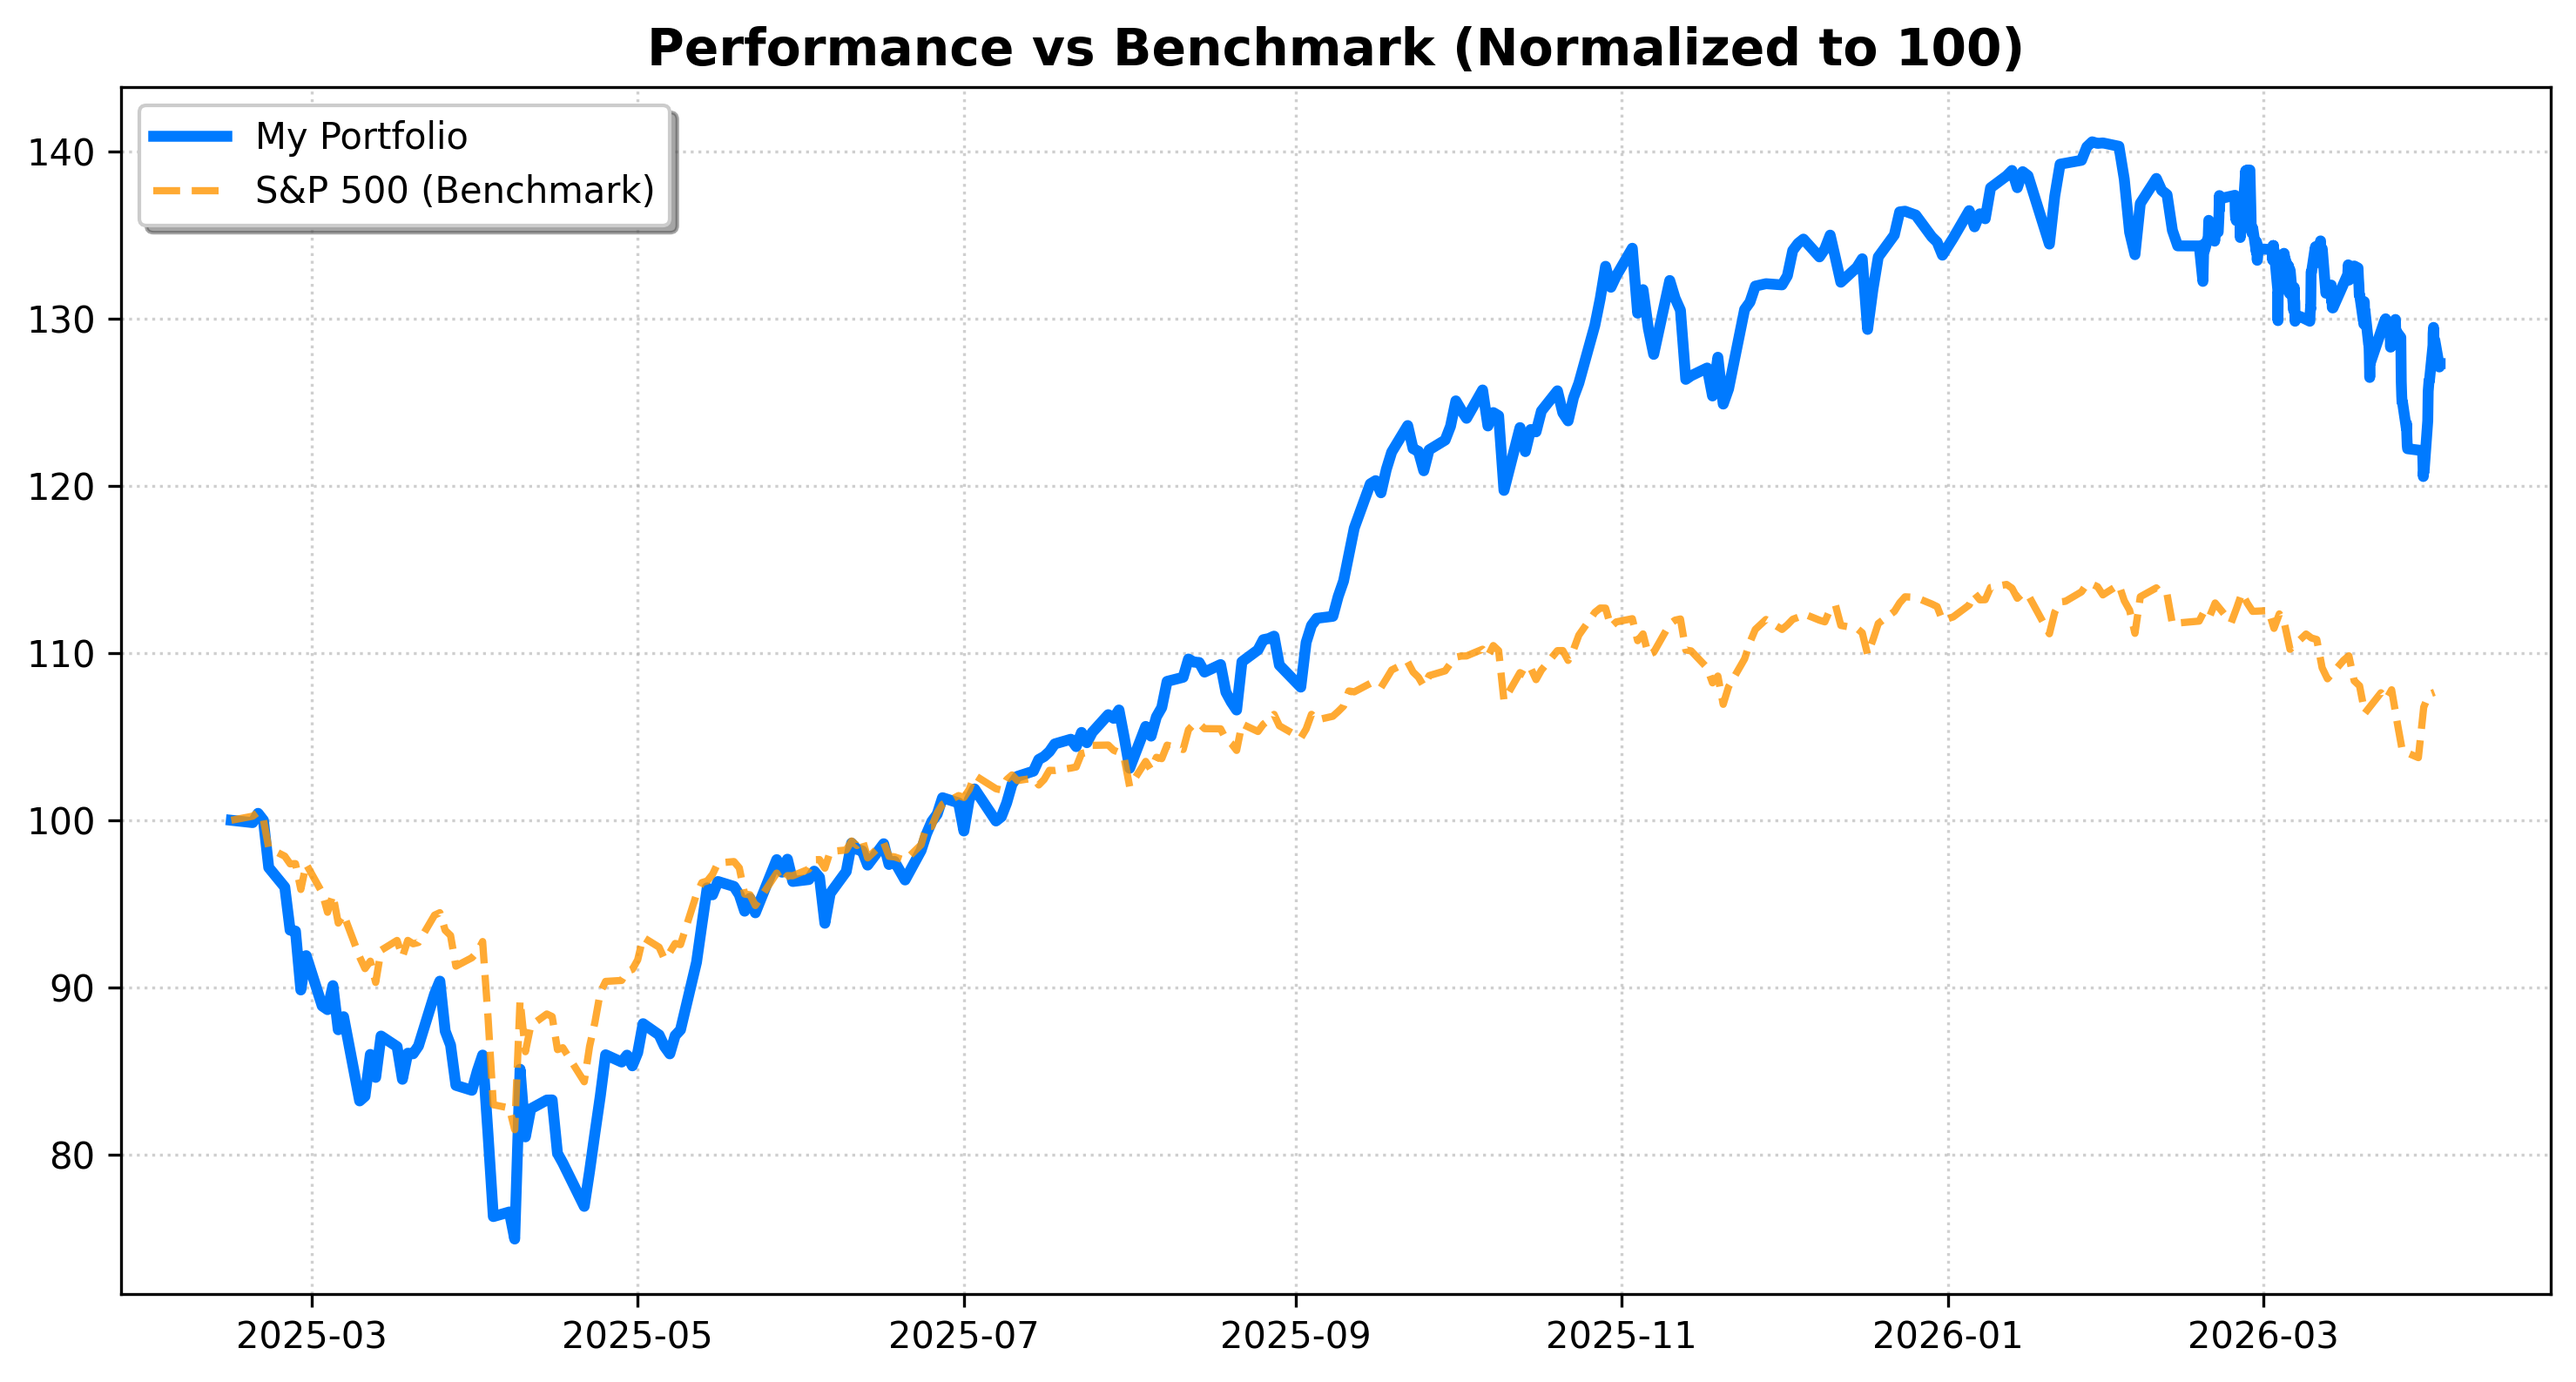
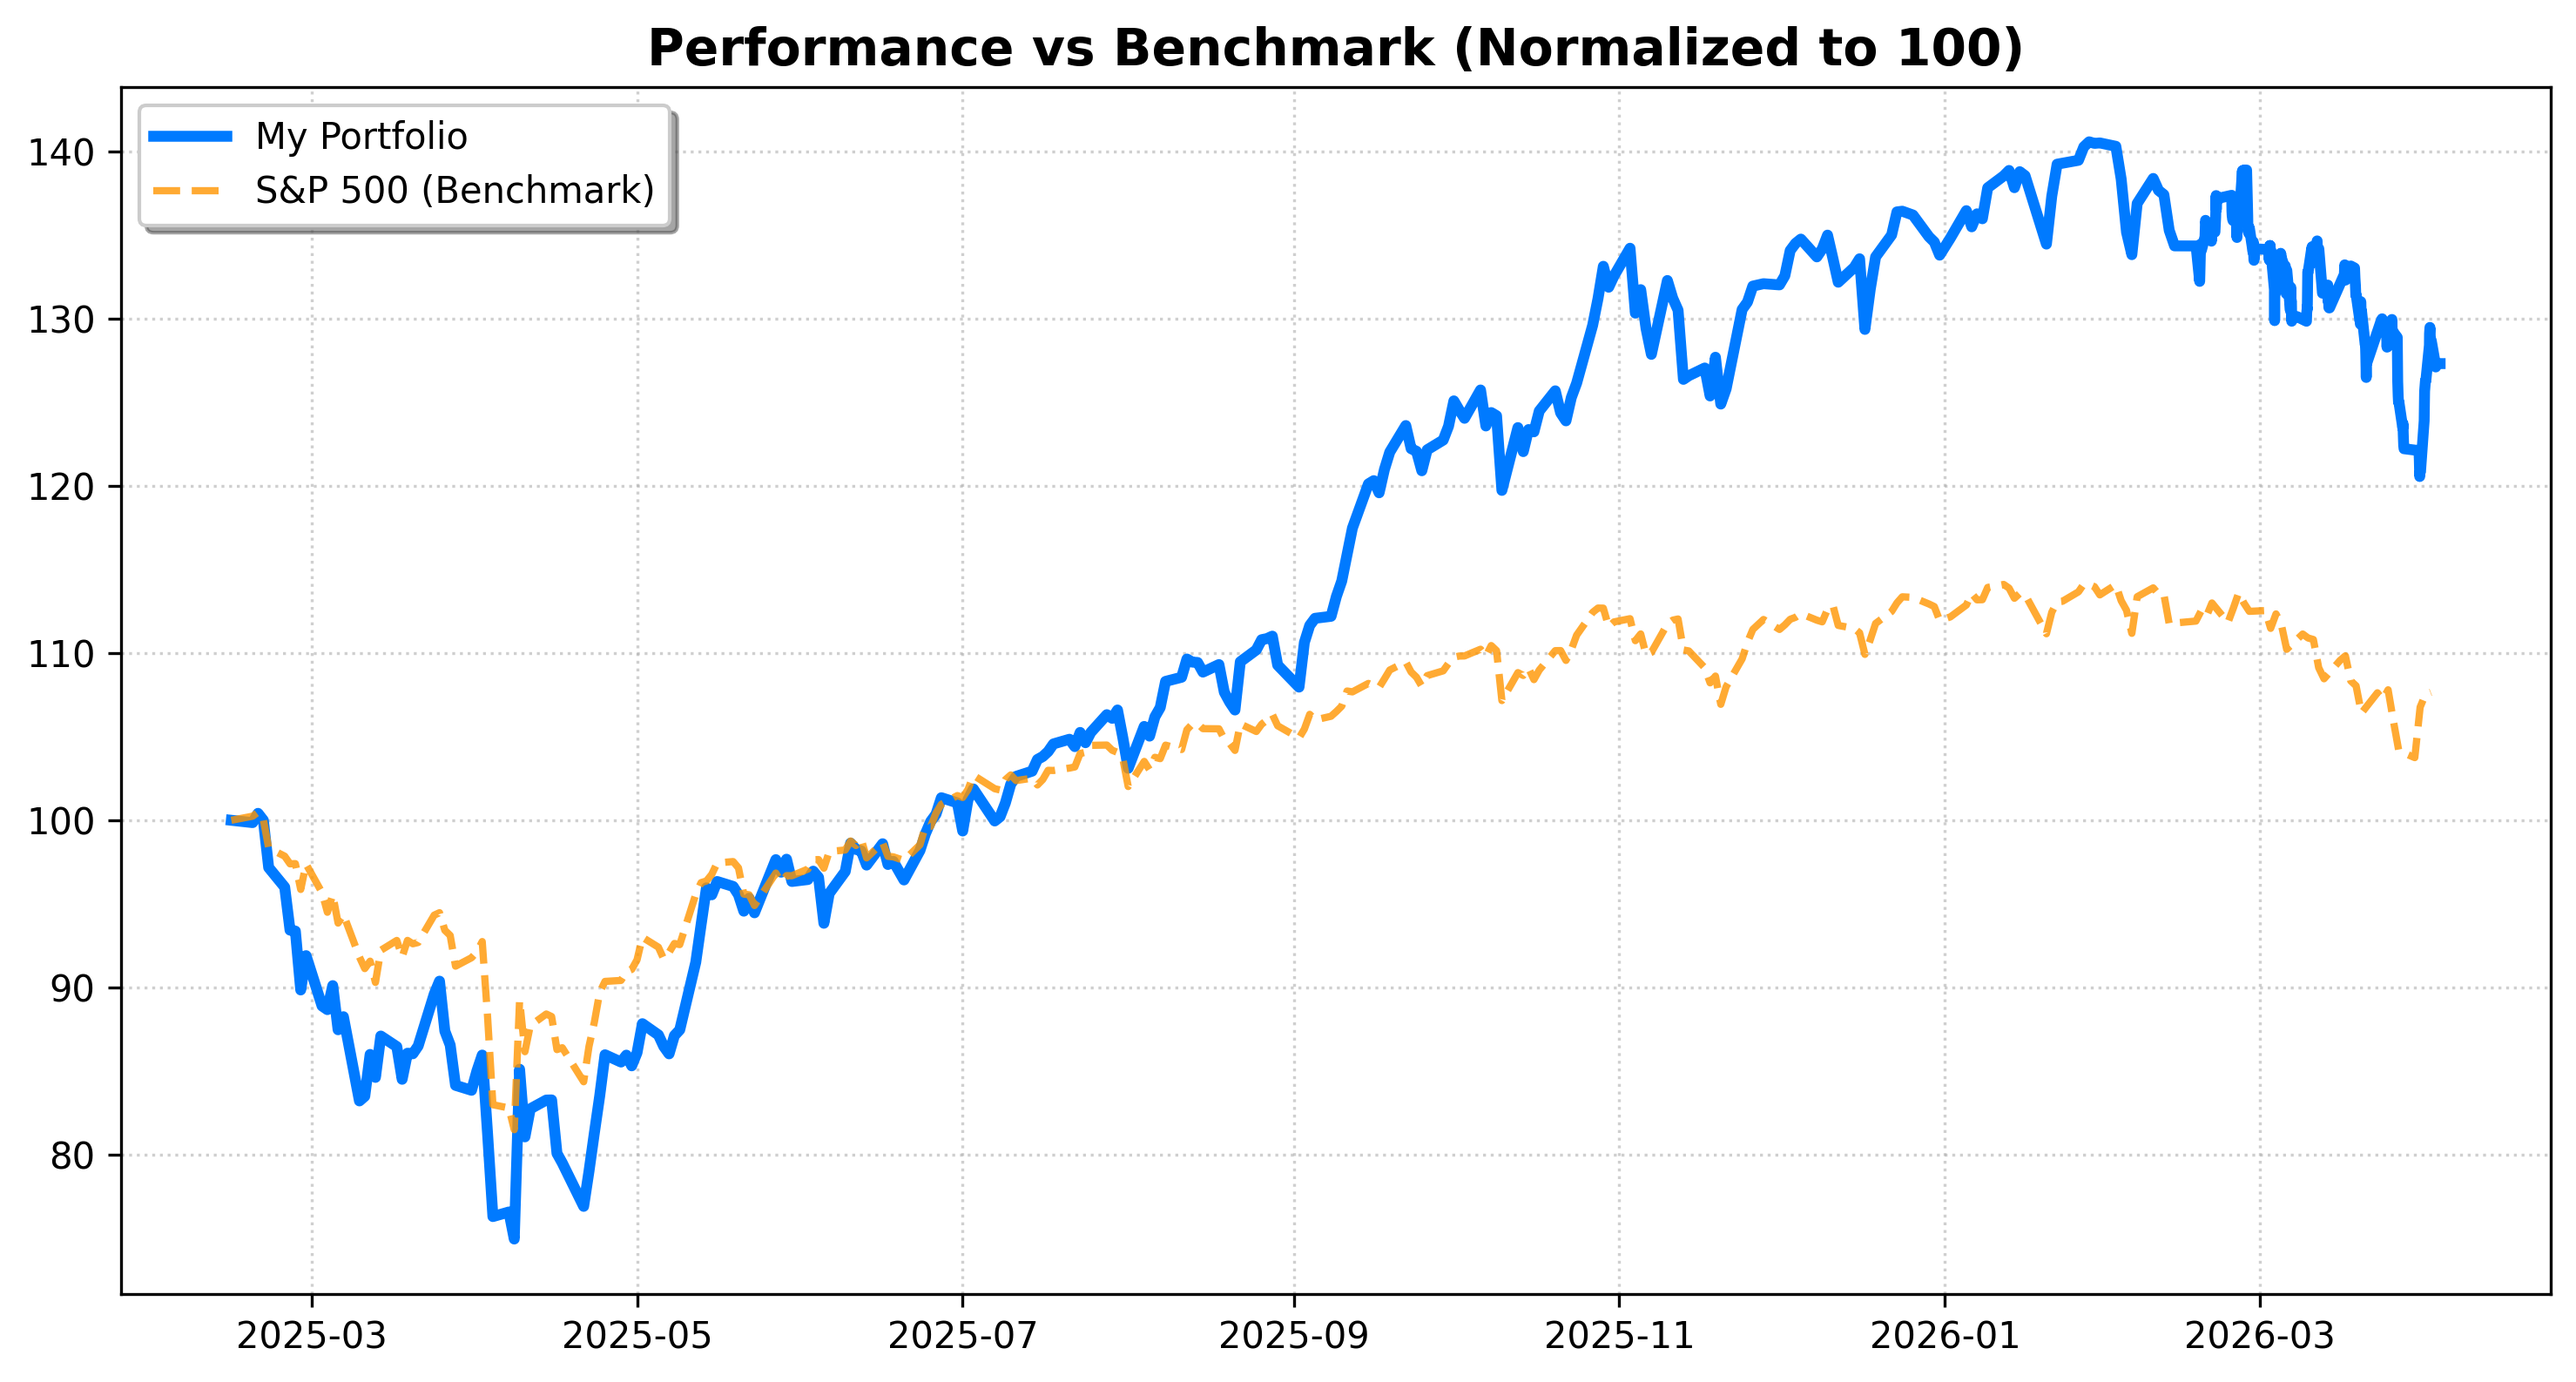
System Run: Analytics & Archive Update [skip ci]

diff --git a/README.md b/README.md
@@ -1,23 +1,23 @@
 # 📊 Portfolio Dashboard | מעקב תיק השקעות
-**Last Update:** 03/04/2026 01:38 | **USD/ILS:** ₪3.132
+**Last Update:** 03/04/2026 17:51 | **USD/ILS:** ₪3.129
 
 ## 💰 Portfolio Summary | סיכום התיק
 | Metric | Value | נתון |
 | :--- | :--- | :--- |
-| **Current Value** | `₪158,760` | **שווי נוכחי** |
-| **Total Invested** | `₪131,538` | **סך השקעה** |
-| **Total Profit/Loss** | `+20.70%` (₪27,222) | **רווח/הפסד כולל** |
+| **Current Value** | `₪158,603` | **שווי נוכחי** |
+| **Total Invested** | `₪131,408` | **סך השקעה** |
+| **Total Profit/Loss** | `+20.70%` (₪27,196) | **רווח/הפסד כולל** |
 | **Daily Change** | `-1.09%` | **שינוי יומי** |
 
 ## 📜 Holdings | פירוט החזקות
 | Ticker | Shares | Avg. Cost | Current Price | P&L % | P&L ILS |
 | :--- | :--- | :--- | :--- | :--- | :--- |
-| GOOGL | 45 | $181.15 | $295.79 | 🟢 +63.28% | ₪16,157 |
-| ASML | 4 | $934.51 | $1,317.08 | 🟢 +40.94% | ₪4,793 |
-| XOM | 2 | $126.08 | $160.67 | 🟢 +27.43% | ₪217 |
-| NVDA | 57 | $148.62 | $177.40 | 🟢 +19.36% | ₪5,138 |
-| TSLA | 20 | $436.45 | $360.55 | 🔴 -17.39% | ₪-4,754 |
-| VOO | 24 | $527.38 | $602.85 | 🟢 +14.31% | ₪5,673 |
+| GOOGL | 45 | $181.15 | $295.79 | 🟢 +63.28% | ₪16,141 |
+| ASML | 4 | $934.51 | $1,317.08 | 🟢 +40.94% | ₪4,788 |
+| XOM | 2 | $126.08 | $160.67 | 🟢 +27.43% | ₪216 |
+| NVDA | 57 | $148.62 | $177.40 | 🟢 +19.36% | ₪5,133 |
+| TSLA | 20 | $436.45 | $360.55 | 🔴 -17.39% | ₪-4,750 |
+| VOO | 24 | $527.38 | $602.85 | 🟢 +14.31% | ₪5,667 |
 
 ## 📈 Charts | גרפים
 ![Performance](./data_hub/portfolio_performance.png)
